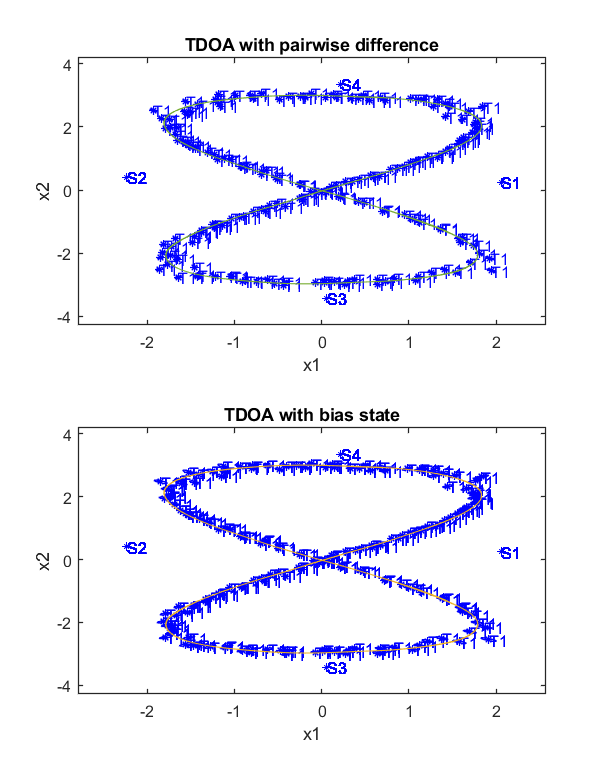
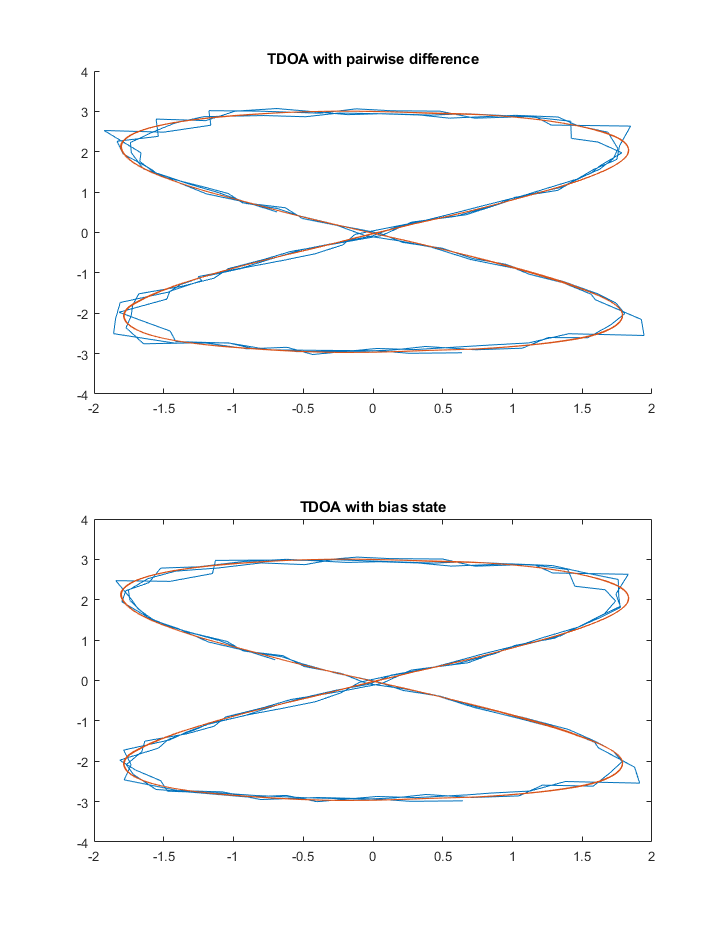
Add fixes to lab 1

diff --git a/code.m b/code.m
@@ -10,33 +10,17 @@ plot(gt(:,2),gt(:,3))
 %%
 %% Task 7.1 Calculate the normal distribution parameters
 load("calibration_data.mat")
-tdoa_errors = zeros(12,25);
 errors = zeros(8,24);
 
 for i = 1:size(tphat,2) - 1
     errors(:,i) = tphat(:,i + 1) - tphat(:,i);
 end
-tdoa_errors(1,:) = tphat(1,:) - tphat(2,:);
-tdoa_errors(2,:) = tphat(1,:) - tphat(3,:);
-tdoa_errors(3,:) = tphat(1,:) - tphat(4,:);
-tdoa_errors(4,:) = tphat(2,:) - tphat(3,:);
-tdoa_errors(5,:) = tphat(2,:) - tphat(4,:);
-tdoa_errors(6,:) = tphat(3,:) - tphat(4,:);
-
-tdoa_errors(7,:) = tphat (5,:) - tphat(6,:);
-tdoa_errors(8,:) = tphat (5,:) - tphat(7,:);
-tdoa_errors(9,:) = tphat (5,:) - tphat(8,:);
-tdoa_errors(10,:) = tphat(6,:) - tphat(7,:);
-tdoa_errors(11,:) = tphat(6,:) - tphat(8,:);
-tdoa_errors(12,:) = tphat(7,:) - tphat(8,:);
 
 chirp_interval = 0.5;
 errors = errors - chirp_interval;
 sel_err = errors;
-err_mean = mean(sel_err, 2);
 err_std = std(sel_err, 0, 2);
 
-err_tdoa_std = std(tdoa_errors,0,2);
 figure()
 for i=1:8
     subplot(3,3,i)
@@ -62,7 +46,12 @@ load("dataset.mat")
 sm = sensormod(@model1, [3 0 4 8])
 mic_range2 = 5:8;
 mic_range = 1:4;
-data = tphat(mic_range,:)' * 343
+data = tphat(mic_range,:)'
+bias = mean(sel_err, 2);
+bias = bias(mic_range)
+for i=1:size(bias,1)
+    data(:,i) = (data(:,i) - bias(i)) * 343
+end
 
 sm2 = sensormod(@model1, [3 0 4 8])
 
@@ -124,20 +113,25 @@ figure()
 sm = sensormod(@model2, [2 0 3 8]);
 sm.th = th * 0.001;
 sm.x0 = [0 0];
-R1 = eye(3) * err_std(1); 
+R1 = err_std(1); 
 R = diag(err_std(2:4));
-sm.pe = ndist(zeros(3,1), R1 - R); % maybe kaos
+sm.pe = ndist(zeros(3,1), R1 + R); % maybe kaos
 
-TDOA_measurements = data(:,1) - data(:,2:4);
+TDOA_measurements = (data(:,1)) - (data(:,2:4));
 subplot(2,1,1)
+data_points = zeros(179,2);
+
+shat = sm
 
 for i=1:179
     %[xhat, shat] = wls(sm, sig(TDOA_measurements(i,:)));
-    [shat, xhat] = nls(sm, sig(TDOA_measurements(i,:)), 'thmask', zeros(sm.nn(4), 1));
+    [shat, xhat] = nls(shat, sig(TDOA_measurements(i,:)), 'thmask', zeros(sm.nn(4), 1));
     hold on
-    plot(shat,'conf',90)
-    sm.x0 = [xhat.sol];
+    data_points(i,:) = xhat.sol;
+    shat.x0 = [xhat.sol];
 end
+plot(data_points(:,1),data_points(:,2))
+
 hold on
 plot(gt(:,2),gt(:,3))
 title('TDOA with pairwise difference')
@@ -146,7 +140,8 @@ title('TDOA with pairwise difference')
 %% 7.5 b)
 sm = sensormod(@model1, [3 0 4 8]);
 sm.th = th * 0.001;
-R = diag(err_std(mic_range,:));
+%R = diag(err_std(mic_range,:));
+R = eye(4); % Set to eye for nls
 sm.pe = ndist(zeros(4,1), R);
 
 r0 = mean(data(1,:));
@@ -154,40 +149,52 @@ sm.x0 = [0 0 r0];
 data_points = zeros(179,3);
 subplot(2,1,2)
 
+shat = sm
 for i=1:length(data(:,1))
-    [shat, xhat] = nls(sm, sig(data(i,:)), 'thmask', zeros(sm.nn(4), 1));
-    sm.x0 = [shat.x0(1:2)' shat.x0(3) + 0.5];
+    [shat, xhat] = nls(shat, sig(data(i,:) - bias), 'thmask', zeros(sm.nn(4), 1));
+    shat.x0 = [shat.x0(1:2)' shat.x0(3) + 0.5];
     data_points(i,:) = xhat.sol;
-    plot(shat, 'conf', 90);
 end
+plot(data_points(:,1),data_points(:,2))
 hold on
 plot(gt(:,2),gt(:,3))
 title('TDOA with bias state')
 hold on
 %%
 
-%% 7.6
+%% 7.6 EKF artificial measurements CV
 figure()
 direct_measurement = @(t,x,u,th) [x(1,:); x(2,:)];
 sm = sensormod(direct_measurement, [2 0 2 0]);
 
 m = exmotion('cv2d');
 m = m.addsensor(sm);
-m.pe=eye(2) * 0.1;
+%Q = diag([1 1 2 2 10 10])
+Q = diag([1 1 2 2]) * 0.1;
+tmp_cov = m.pv.cov;
+m.pv = ndist(zeros(4,1), tmp_cov * Q * tmp_cov');
+%m.pv = m.pv * 0.5;
+m.pe=eye(2) * 0.003;
+m.px0 = blkdiag(eye(2)*1000,eye(2)*1000);
 xhat1 = ekf(m, sig(data_points(:, 1:2))); % Time - varying
 subplot(2,2,1)
 xplot2(xhat1, [1 2]);
 hold on
 plot(gt(:,2),gt(:,3))
 title('EKF artificial measurements CV')
-
+%% EKF artificial measurements CA
 sm = sensormod(direct_measurement, [2 0 2 0]);
 m = exmotion('ca2d');
 m = m.addsensor(sm);
-m.pe=eye(2) * 0.1;
-m.pv = m.pv * 0.1;
+m.px0 = blkdiag(eye(2)*1000,eye(2)*1000,eye(2)*1000);
+m.pe=eye(2) * 0.003;
+Q = diag([1 1 2 2 5 5]) * 0.1;
+tmp_cov = m.pv.cov;
+m.pv = ndist(zeros(6,1), tmp_cov * Q * tmp_cov');
+%m.pv = m.pv * 0.5;
 xhat1 = ekf(m, sig(data_points(:, 1:2))); % Time - varying
-subplot(2,2,2)
+subplot(2,2,2) 
+%clf('reset')
 xplot2(xhat1, [1 2]);
 hold on
 plot(gt(:,2),gt(:,3))
@@ -199,12 +206,16 @@ title('EKF artificial measurements CA')
 TDOA_measurements = (data(:, 1) - data(:, 2:4));
 sm = sensormod(@model2, [2 0 3 8]);
 
-R1 = diag(err_std(1));
-R = diag(err_tdoa_std(2:4));
+R1 = err_std(1);
+R = diag(err_std(2:4));
 mm = exmotion('cv2d', 0.5);
 mms = addsensor(mm, sm);
-mms.pe = ndist(zeros(3,1), R); % maybe kaos
-mms.pv = mms.pv * 0.1;
+mms.pe = ndist(zeros(3,1), R + R1); % maybe kaos
+
+Q = diag([1 1 2 2]) * 0.1;
+tmp_cov = mms.pv.cov;
+mms.pv = ndist(zeros(4,1), tmp_cov * Q * tmp_cov');
+
 mms.th = th * 0.001;
 xhat1 = ekf(mms, sig(TDOA_measurements)); % Time - varying
 subplot(2,2,3)
@@ -218,11 +229,17 @@ title('EKF pairwise difference measure CV')
 TDOA_measurements = (data(:, 1) - data(:, 2:4));
 sm = sensormod(@model2, [2 0 3 8]);
 
-R = diag(err_tdoa_std(2:4));
+R1 = err_std(1);
+R = diag(err_std(2:4));
 mm = exmotion('ca2d', 0.5);
 mms = addsensor(mm, sm);
-mms.pe = ndist(zeros(3,1), R(1:3,1:3));
-mms.pv = mms.pv * 0.1;
+mms.pe = ndist(zeros(3,1), R + R1);
+
+Q = diag([1 1 2 2 5 5]) * 0.1;
+tmp_cov = mms.pv.cov;
+mms.pv = ndist(zeros(6,1), tmp_cov * Q * tmp_cov');
+
+%mms.pv = mms.pv * 0.1;
 mms.th = th * 0.001;
 xhat1 = ekf(mms, sig(TDOA_measurements));
 subplot(2,2,4)
@@ -243,7 +260,7 @@ for i=1:9
     th_bad = th + sens_std.*randn(8,1)';
     TDOA_measurements = (data(:, 1) - data(:, 2:4));
     sm = sensormod(@model2, [2 0 3 8]);
-    R1 = eye(3) * err_std(1);
+    R1 = err_std(1);
     R = diag(err_std(2:4));
     mm = exmotion('cv2d', 0.5);
     mms = addsensor(mm, sm);
